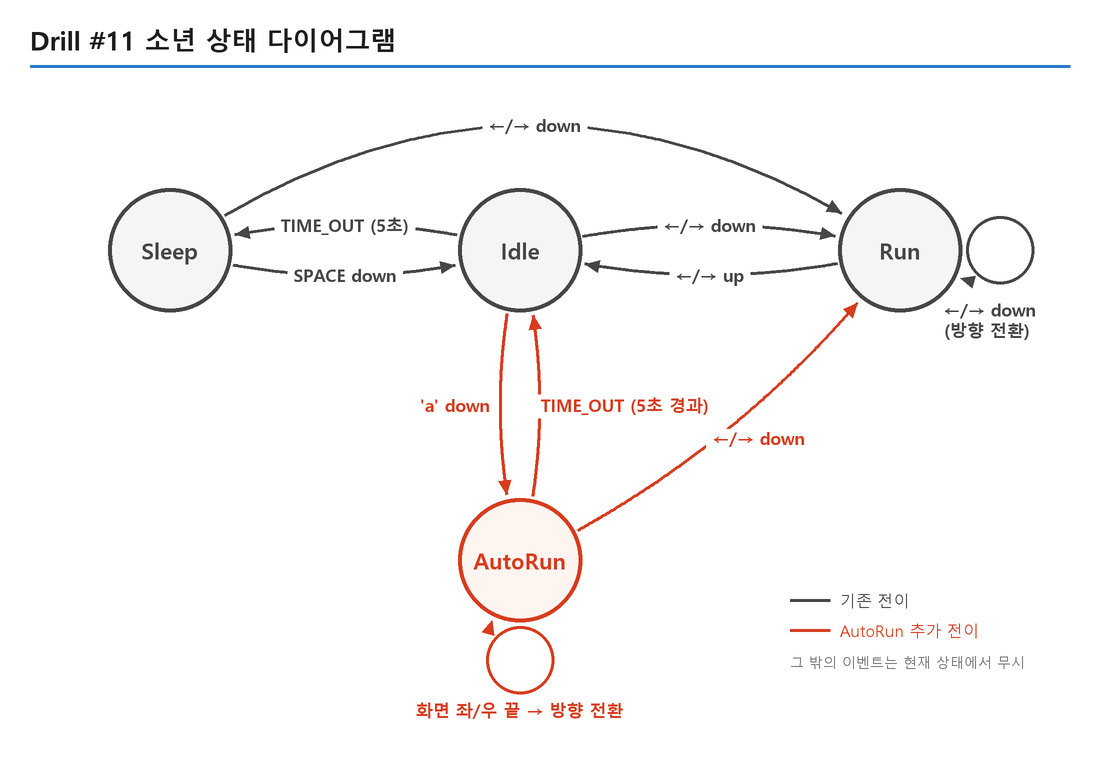
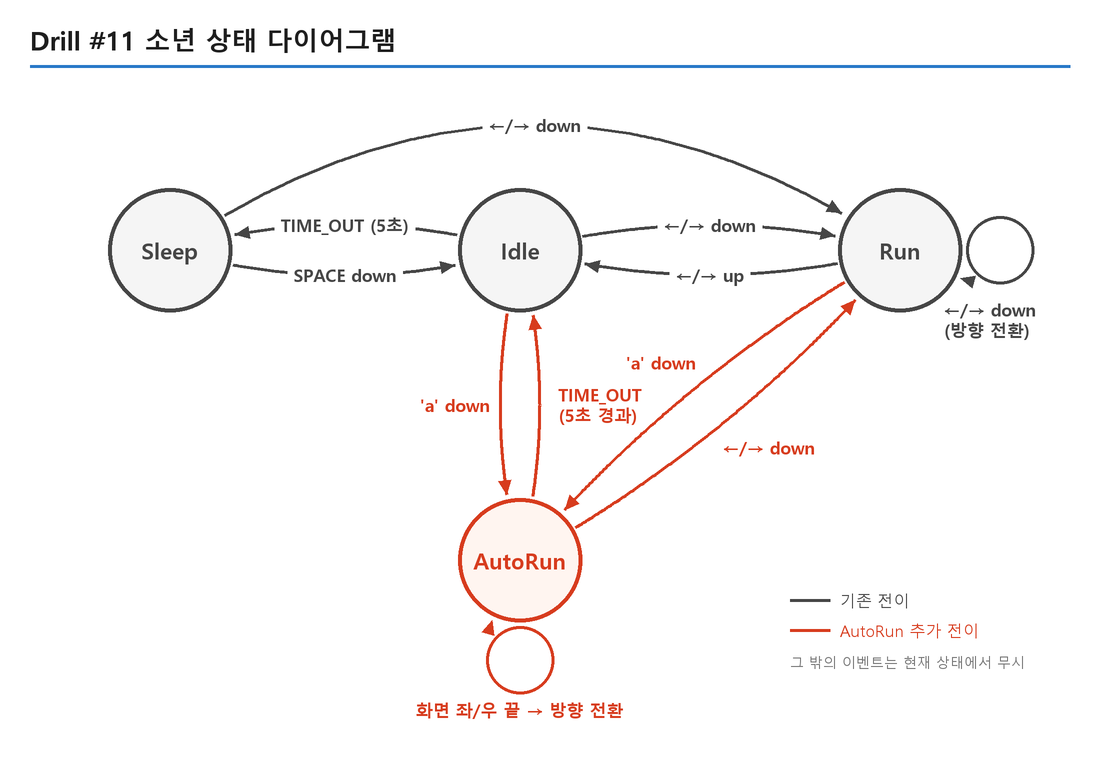
docs: 상태 다이어그램과 PRD에 Run -> AutoRun 전이 반영, 개발 로그 갱신

diff --git a/PRD.md b/PRD.md
@@ -26,6 +26,7 @@
 | 현재 상태 | 이벤트 | 다음 상태 | 비고 |
 |---|---|---|---|
 | Idle | `a` 키 down | **AutoRun** | 신규 |
+| Run | `a` 키 down | **AutoRun** (달리던 방향 유지) | 신규 (추가 요구) |
 | AutoRun | 시작 후 5초 이상 경과 (`TIME_OUT`) | Idle | 신규 |
 | AutoRun | → 키 down | Run (오른쪽) | 신규, Run의 기존 enter 로직 재사용 |
 | AutoRun | ← 키 down | Run (왼쪽) | 신규, Run의 기존 enter 로직 재사용 |
@@ -42,6 +43,7 @@ stateDiagram-v2
     Sleep --> Idle : SPACE
 
     Idle --> AutoRun : a down
+    Run --> AutoRun : a down
     AutoRun --> Idle : 5초 경과 (TIME_OUT)
     AutoRun --> Run : ← / → down
     AutoRun --> AutoRun : 화면 끝 → 방향 반전
@@ -54,7 +56,8 @@ stateDiagram-v2
 ### FR-1. `a` 키 → AutoRun 진입 (1점)
 - `KEY_EVENTS`에 `(SDL_KEYDOWN, SDLK_a): 'a_down'` 추가
 - 전이 테이블에 `add_transition('a_down', 'IDLE', 'AUTO_RUN')` 추가
-- Idle 상태에서만 진입한다 (Run/Sleep에서 `a`는 무시).
+- Idle과 Run 상태에서 진입한다. Run에서 들어오면 달리던 방향(`face_dir`) 그대로 자동 질주를 시작한다. Sleep에서 `a`는 무시한다.
+- 전이 테이블에 `add_transition('a_down', 'RUN', 'AUTO_RUN')` 추가
 
 ### FR-2. AutoRun 시각/속도 변화 (1점)
 - 이동 속도: 일반 Run보다 확실히 빠르게 (예: Run 속도의 2~3배)
@@ -162,7 +165,7 @@ machine.add_transition('left_down', 'AUTO_RUN', 'RUN')
 **제출란 참고사항 예시**
 ```
 - 실행: python main.py (pico2d, transitions 필요) / 테스트: python test_boy.py
-- 조작: ←/→ 이동, a: 자동 무적 런(Idle 상태에서만), SPACE: Sleep에서 깨우기, ESC 종료
+- 조작: ←/→ 이동, a: 자동 무적 런(Idle 또는 방향키로 달리는 중), SPACE: Sleep에서 깨우기, ESC 종료
 - AutoRun은 boy.py의 AutoRun 클래스로 구현, 상태 다이어그램은 state_diagram.png
 ```
 
@@ -178,15 +181,29 @@ machine.add_transition('left_down', 'AUTO_RUN', 'RUN')
 
 ## 10. 개발 로그 (커밋 단위)
 
-| 단계 | 내용 |
-|---|---|
-| docs | PRD 작성 |
-| chore | 강의 리소스(`animation_sheet.png`, `grass.png`) 추가 |
-| feat | 모듈 분리 + transitions Machine으로 Idle 상태 |
-| feat | Sleep 상태 (Idle 5초 → Sleep, SPACE → Idle) |
-| feat | Run 상태 (방향키, 화면 밖으로 나가지 않음) |
-| feat | **AutoRun 상태 클래스** (`a` → AutoRun, 5초 → Idle, 방향키 → Run) |
-| docs | 상태 다이어그램 이미지 |
-| fix | 양쪽 방향키를 함께 눌렀다 하나만 떼면 남은 방향으로 계속 달리기 |
-| test | 상태 전이 자동 테스트 |
-| docs | 제출 요건·개발 로그 갱신 |
+| # | 단계 | 내용 |
+|---|---|---|
+| 1 | docs | PRD 작성 |
+| 2 | chore | `.gitignore` 추가 |
+| 3 | chore | 강의 리소스(`animation_sheet.png`, `grass.png`) 추가 |
+| 4 | feat | 강의 시작 코드 `boy_game.py`를 `main.py`로 가져오기 |
+| 5 | refactor | `Grass` 클래스를 `grass.py`로 분리 |
+| 6 | refactor | `Boy` 클래스를 `boy.py`로 분리 |
+| 7 | feat | transitions `Machine` 도입, `Idle` 상태 클래스 |
+| 8 | feat | Idle 5초 경과 → `Sleep` 상태 |
+| 9 | feat | Sleep에서 SPACE → Idle |
+| 10 | feat | `Run` 상태 (방향키 down → Run, up → Idle) |
+| 11 | fix | Run 중 화면 밖으로 나가지 않게 |
+| 12 | feat | Sleep에서 방향키 → Run |
+| 13 | feat | **`AutoRun` 상태 클래스**, `a` → 3배 속도 자동 질주 |
+| 14 | feat | AutoRun 화면 좌우 끝 자동 방향 전환 |
+| 15 | feat | AutoRun 2배 확대, 발 위치 보정 |
+| 16 | feat | AutoRun 5초 경과 → Idle |
+| 17 | feat | AutoRun 중 방향키 → Run |
+| 18 | docs | 상태 다이어그램 이미지 |
+| 19 | fix | 양쪽 방향키를 누르다 하나만 떼면 남은 방향으로 계속 달리기 |
+| 20 | test | 상태 전이 자동 테스트 |
+| 21 | docs | PRD 제출 요건·개발 로그 갱신 |
+| 22 | feat | Run 중에도 `a` → AutoRun (달리던 방향 유지) |
+| 23 | test | Run 중 `a` 테스트 |
+| 24 | docs | 상태 다이어그램·PRD 전이 명세 갱신 |
